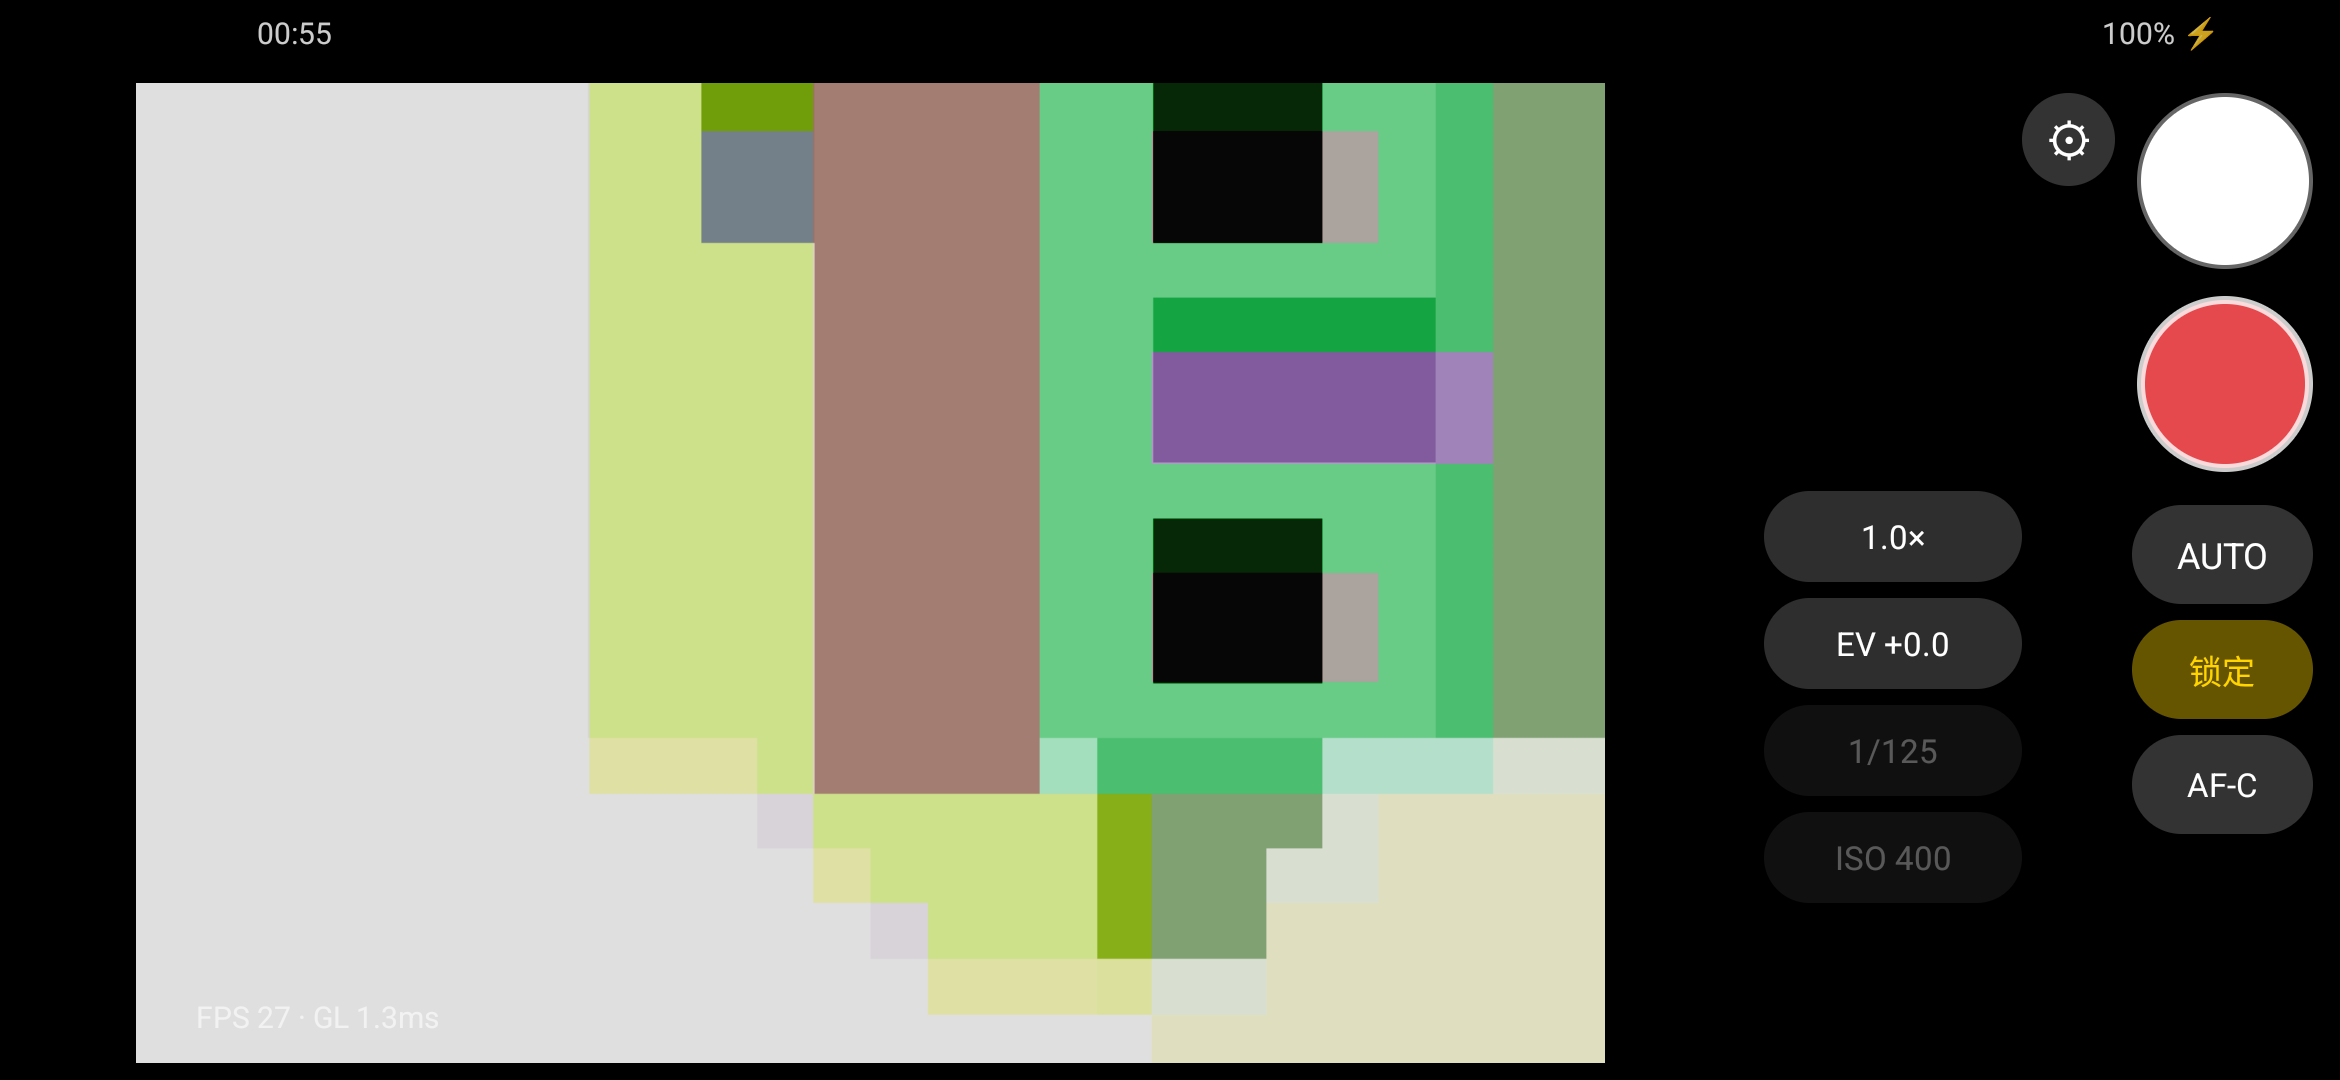
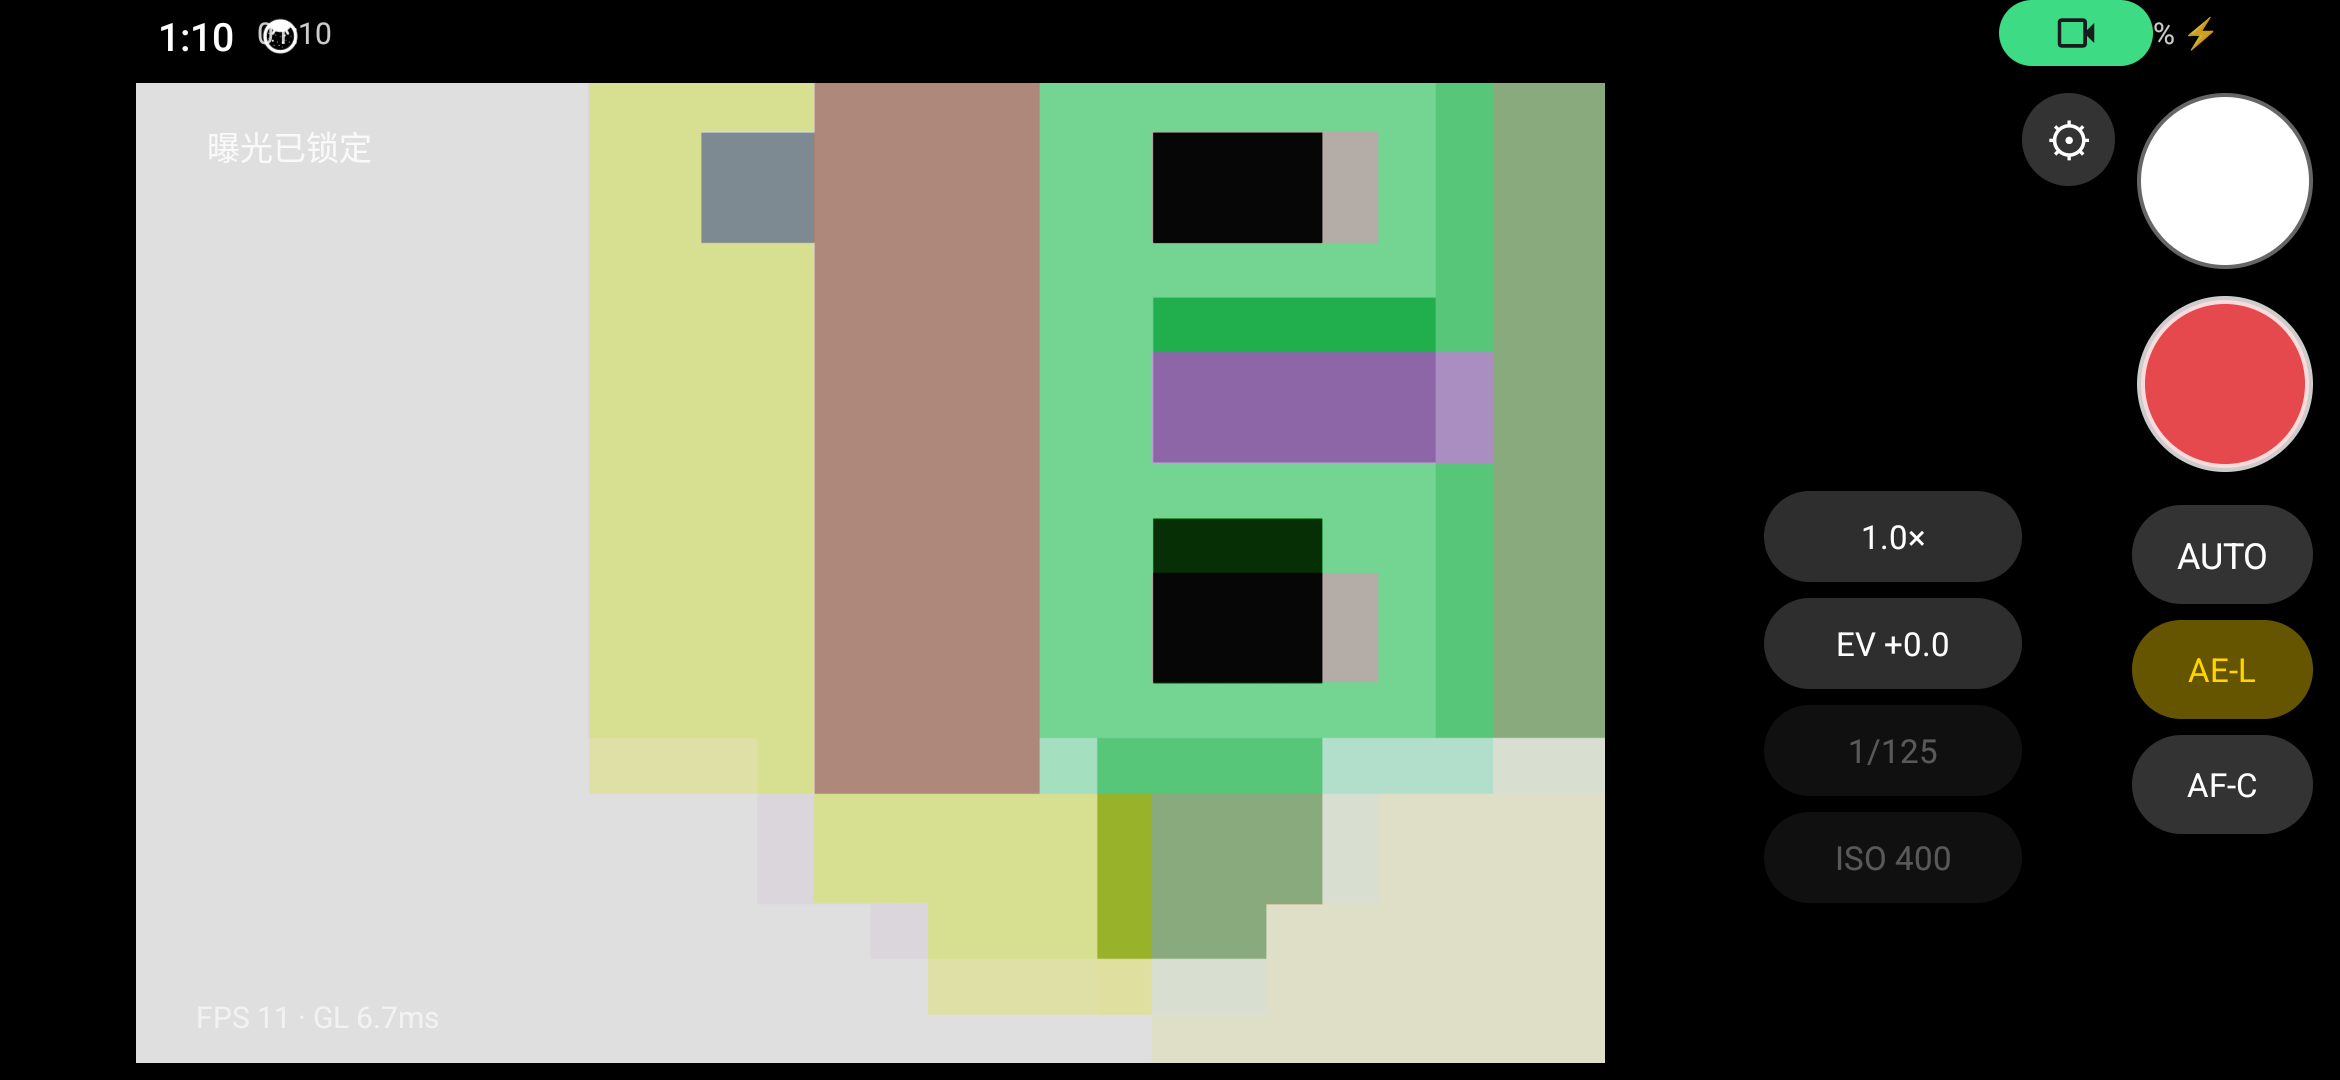
2.0.1：AE-L 只做高亮不改文字；Lume/Vex 版本升到 2.0.1

diff --git a/lume/app/src/main/java/com/magirri/lume/MainActivity.kt b/lume/app/src/main/java/com/magirri/lume/MainActivity.kt
@@ -914,7 +914,7 @@ class MainActivity : Activity() {
     private fun toggleAeLock() {
         val on = !camera.aeLocked
         camera.setAeLock(on)
-        meterBtn.text = if (on) "锁定" else "AE-L"
+        // 文字始终是 AE-L，只用颜色/底色强调状态
         meterBtn.setTextColor(if (on) 0xFFFFD400.toInt() else Color.WHITE)
         meterBtn.background = pill(if (on) 0x66FFD400 else 0x2EFFFFFF)
         showStatus(if (on) "曝光已锁定" else "曝光自动")

diff --git a/vex/android/README.md b/vex/android/README.md
@@ -11,10 +11,10 @@
 
 ## 安装
 
-编译好的调试版在 [`dist/magirri-vex-2.0-debug.apk`](dist/magirri-vex-2.0-debug.apk)（8.0 MB，含液态玻璃库的 AndroidX 传递依赖）。
+编译好的调试版在 [`dist/magirri-vex-2.0.1-debug.apk`](dist/magirri-vex-2.0.1-debug.apk)（8.0 MB，含液态玻璃库的 AndroidX 传递依赖）。
 
 ```bash
-adb install -r dist/magirri-vex-2.0-debug.apk
+adb install -r dist/magirri-vex-2.0.1-debug.apk
 ```
 
 或者把 APK 拷进手机点开安装（需要在系统里允许"未知来源"）。

diff --git a/README.md b/README.md
@@ -32,8 +32,8 @@ python -m vex verify
 
 ```bash
 # 两个 App 的安装包
-adb install -r vex/android/dist/magirri-vex-2.0-debug.apk
-adb install -r lume/dist/magirri-lume-2.0-debug.apk
+adb install -r vex/android/dist/magirri-vex-2.0.1-debug.apk
+adb install -r lume/dist/magirri-lume-2.0.1-debug.apk
 ```
 
 ## 构建
